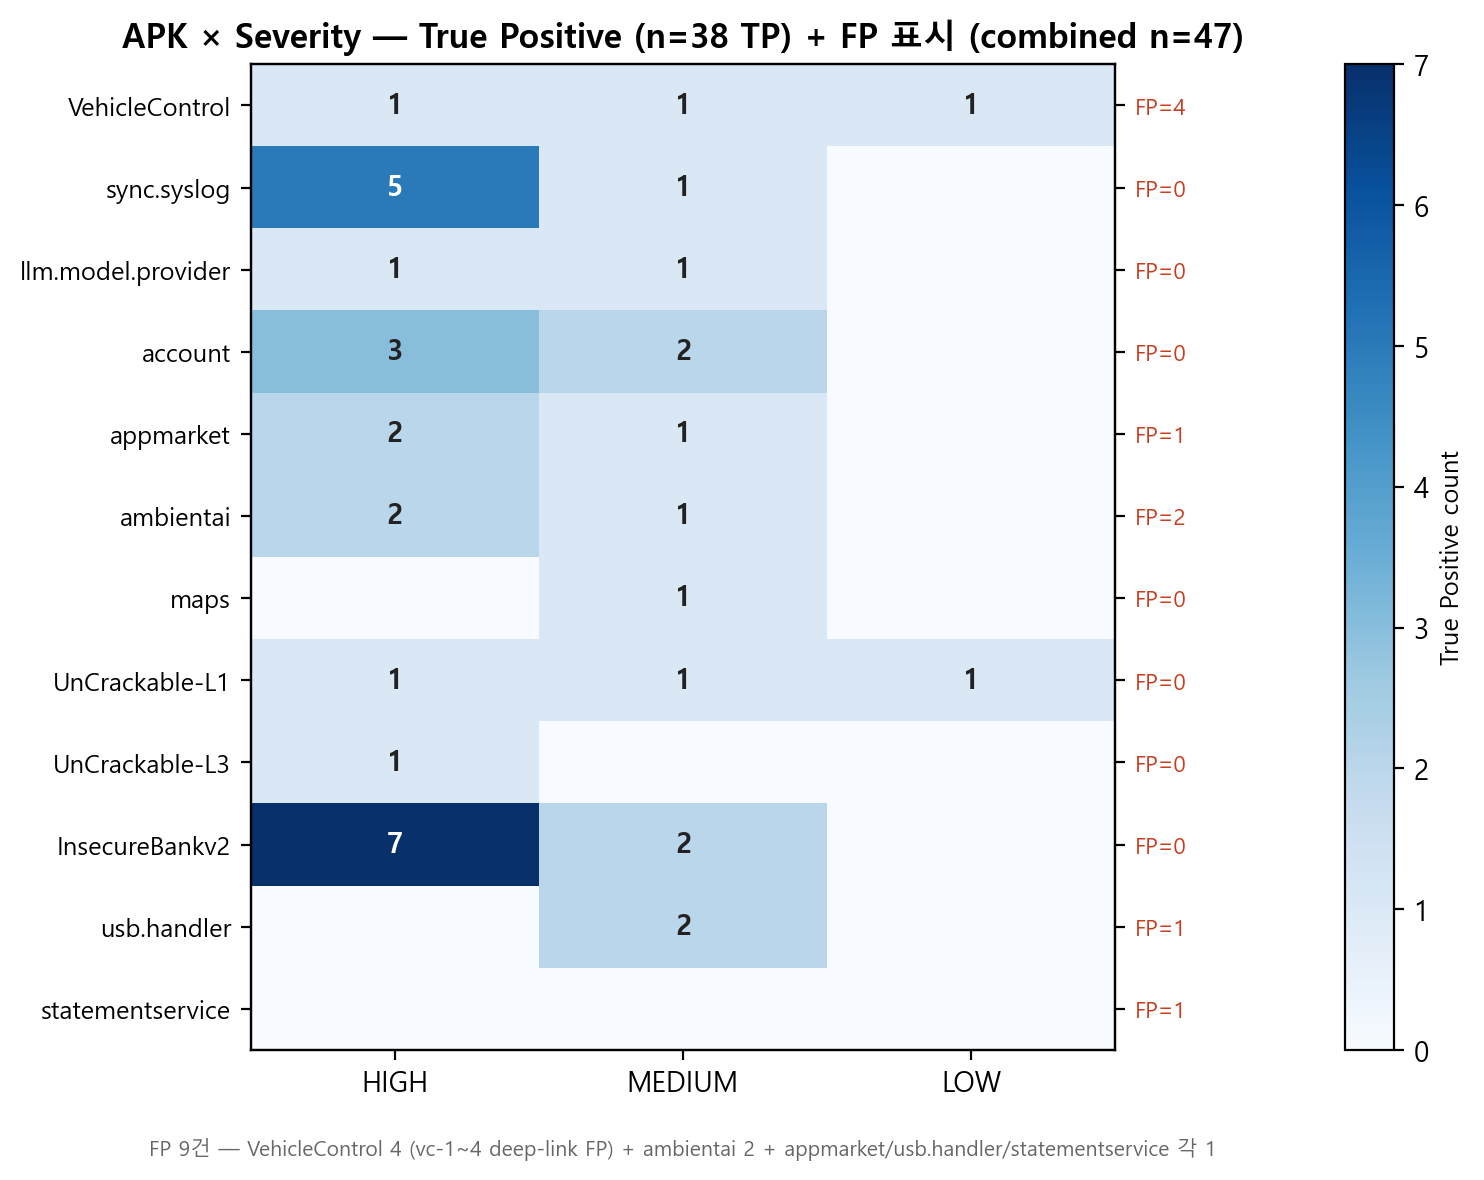
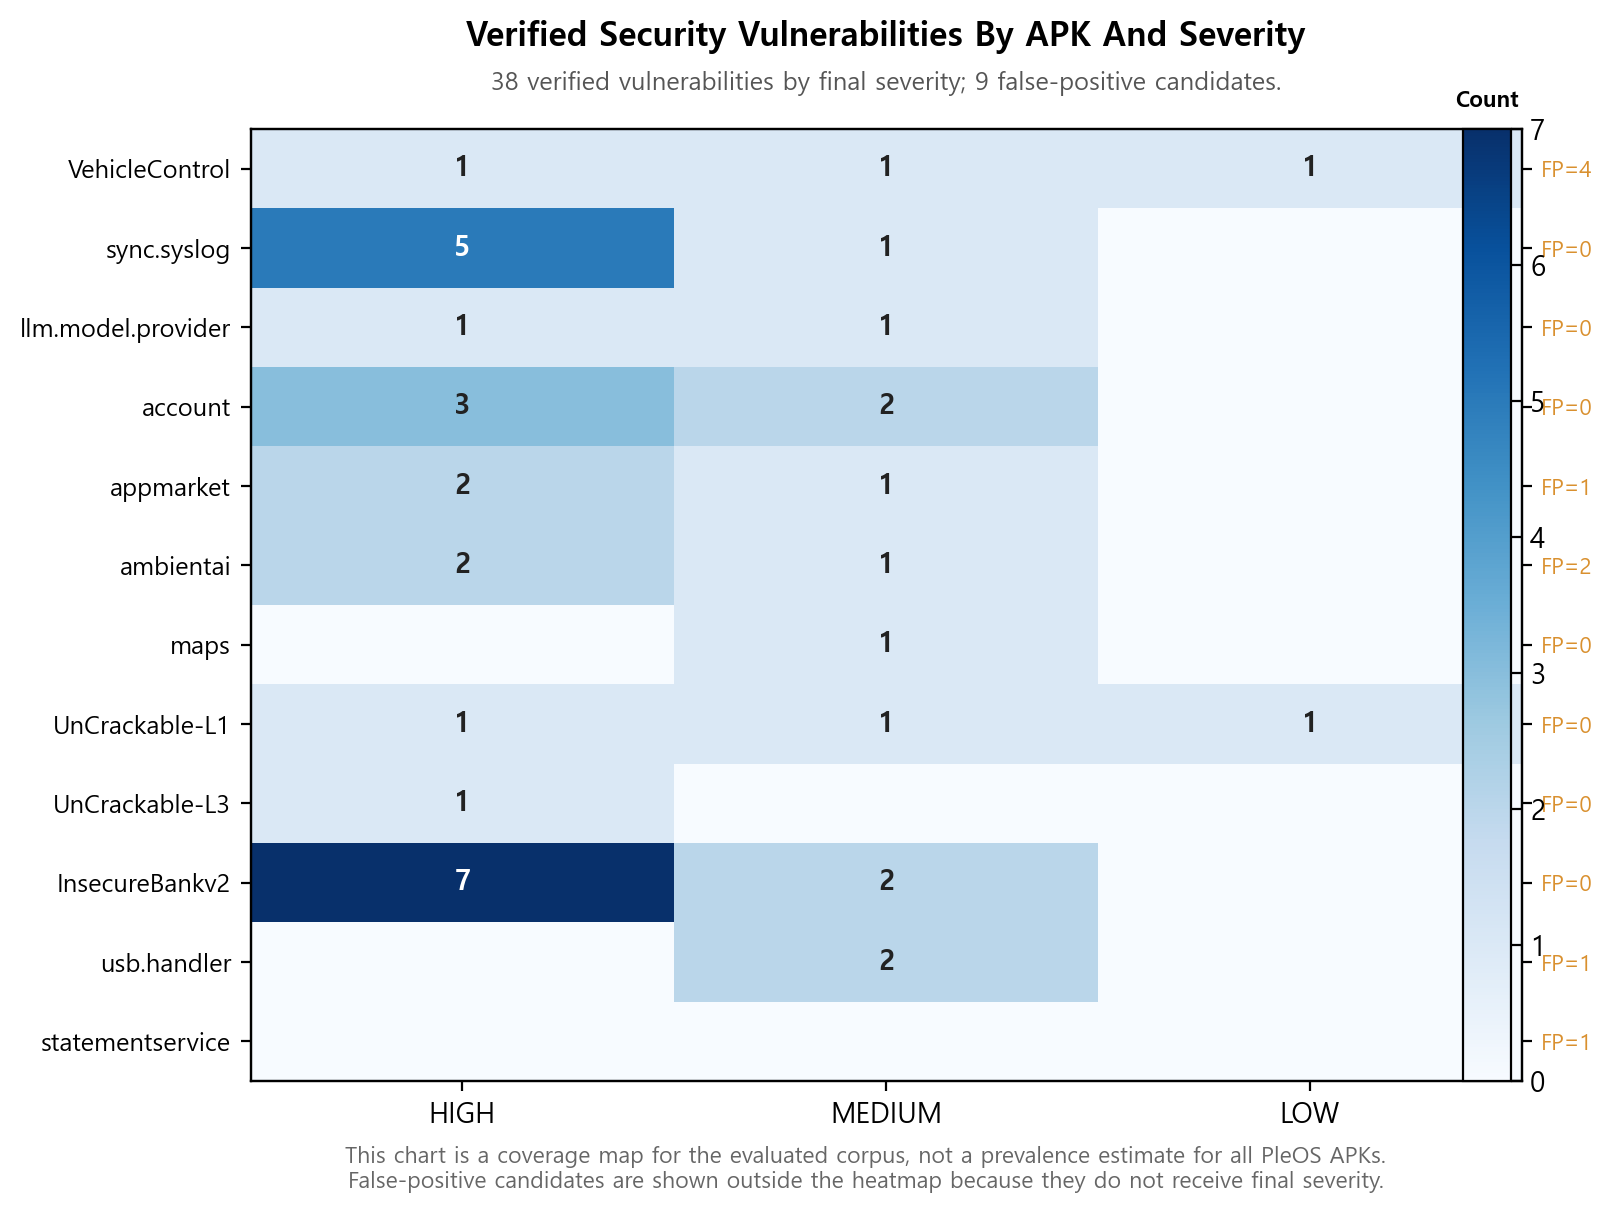
docs: refresh severity heatmap chart

diff --git a/src/viz/plot_metrics.py b/src/viz/plot_metrics.py
@@ -4,7 +4,7 @@ Generate publication-quality charts from the GT + ablation + entropy measurement
 
 Outputs (data/viz/*.png):
 - 01_category_distribution.png   : finding 카테고리 분포 (combined n=47)
-- 02_apk_severity_heatmap.png    : APK × severity 히트맵 (12 APK, n=47)
+- 02_apk_severity_heatmap.png    : verified vulnerabilities by APK and severity
 - 03_fp_rate_trend.png           : 1차/2차/3차 오탐률 (PPT 가설 vs 실측 n=18/n=47)
 - 04_deobf_accuracy_trend.png    : Corpus별 난독화 분포 + LLM rename 정확도 (단일 측정, 시간축 아님)
 - 05_ablation_bars.png           : A 변형 + B threshold sensitivity (combined n=47)
@@ -75,14 +75,15 @@ def chart_category_distribution() -> None:
 
 # ---------------------------------------------------------------- 02 severity heatmap
 def chart_severity_heatmap() -> None:
-    # combined_labels.json n=47 기준 — apk × true_severity TP count + FP 별도 annotation
+    # combined_labels.json n=47: verified vulnerabilities by APK/final severity,
+    # with rejected candidates shown as a separate right-side annotation.
     apks = [
         "VehicleControl", "sync.syslog", "llm.model.provider", "account",
         "appmarket", "ambientai", "maps", "UnCrackable-L1", "UnCrackable-L3",
         "InsecureBankv2", "usb.handler", "statementservice",
     ]
     sev_levels = ["HIGH", "MEDIUM", "LOW"]
-    tp_matrix = np.array(
+    verified_matrix = np.array(
         [
             [1, 1, 1],   # VehicleControl  — vc-5/6/7
             [5, 1, 0],   # sync.syslog     — ssl-1/2/4/5/6 HIGH, ssl-3 MED
@@ -99,37 +100,44 @@ def chart_severity_heatmap() -> None:
         ],
         dtype=int,
     )
-    fp_per_apk = np.array([4, 0, 0, 0, 1, 2, 0, 0, 0, 0, 1, 1])  # 합계 9 FP
+    rejected_per_apk = np.array([4, 0, 0, 0, 1, 2, 0, 0, 0, 0, 1, 1])  # total 9 rejected
 
-    fig, ax = plt.subplots(figsize=(7.4, 6.4))
-    im = ax.imshow(tp_matrix, aspect="auto", cmap="Blues", vmin=0, vmax=tp_matrix.max())
+    fig, ax = plt.subplots(figsize=(8.2, 6.8))
+    im = ax.imshow(verified_matrix, aspect="auto", cmap="Blues", vmin=0, vmax=verified_matrix.max())
     ax.set_xticks(range(len(sev_levels)))
     ax.set_xticklabels(sev_levels)
     ax.set_yticks(range(len(apks)))
     ax.set_yticklabels(apks, fontsize=9)
-    ax.set_title("APK × Severity — True Positive (n=38 TP) + FP 표시 (combined n=47)")
+    ax.set_title("Verified Security Vulnerabilities By APK And Severity", pad=30)
+    ax.text(
+        0.5, 1.035,
+        "38 verified vulnerabilities by final severity; 9 false-positive candidates.",
+        transform=ax.transAxes, ha="center", va="bottom", fontsize=9, color="#555",
+    )
 
     for i in range(len(apks)):
         for j in range(len(sev_levels)):
-            v = tp_matrix[i, j]
+            v = verified_matrix[i, j]
             if v > 0:
                 ax.text(j, i, str(v), ha="center", va="center",
                         color="white" if v >= 4 else "#222", fontweight="bold")
 
-    # FP annotation column on the right
+    # Rejected candidates are not assigned final severity, so they are shown outside the heatmap.
     ax2 = ax.twinx()
     ax2.set_yticks(range(len(apks)))
-    ax2.set_yticklabels([f"FP={n}" for n in fp_per_apk])
+    ax2.set_yticklabels([f"FP={n}" for n in rejected_per_apk])
     ax2.set_ylim(ax.get_ylim())
-    ax2.tick_params(axis="y", labelsize=8, labelcolor="#c73e1d")
+    ax2.tick_params(axis="y", labelsize=8, labelcolor="#d9902f")
 
     cbar = fig.colorbar(im, ax=ax, fraction=0.046, pad=0.20)
-    cbar.set_label("True Positive count", fontsize=9)
-    ax.text(
-        0.5, -0.10,
-        "FP 9건 — VehicleControl 4 (vc-1~4 deep-link FP) + ambientai 2 + appmarket/usb.handler/statementservice 각 1",
-        transform=ax.transAxes, ha="center", va="center", fontsize=7.5, color="#666",
+    cbar.ax.set_title("Count", fontsize=8, pad=8)
+    fig.text(
+        0.5, 0.075,
+        "This chart is a coverage map for the evaluated corpus, not a prevalence estimate for all PleOS APKs.\n"
+        "False-positive candidates are shown outside the heatmap because they do not receive final severity.",
+        ha="center", va="center", fontsize=8.2, color="#666",
     )
+    fig.subplots_adjust(bottom=0.14, top=0.84)
     fig.savefig(OUT_DIR / "02_apk_severity_heatmap.png")
     plt.close(fig)
 

diff --git a/docs/05_charts.md b/docs/05_charts.md
@@ -6,8 +6,8 @@ This document records the chart artifacts used by the final report. The chart im
 
 | Chart | Source input | Command | Boundary |
 |---|---|---|---|
-| `data/viz/01_category_distribution.png` | final `combined_labels.json` `n=47` summary embedded in plotting script | `python src/viz/plot_metrics.py` | Stage 1 category TP/FP distribution, not Stage 3 final report distribution |
-| `data/viz/02_apk_severity_heatmap.png` | final `n=47` APK/severity matrix in script | same | TP heatmap with FP annotation |
+| `data/viz/01_category_distribution.png` | 47-candidate vulnerability-pattern summary embedded in plotting script | `python src/viz/plot_metrics.py` | LLM candidates after context verification; TP/FP appears only in the legend |
+| `data/viz/02_apk_severity_heatmap.png` | verified-vulnerability APK/severity matrix plus false-positive candidate counts in script | same | coverage map for the evaluated corpus, not a prevalence estimate for all PleOS APKs |
 | `data/viz/03_fp_rate_trend.png` | Stage 1/2/3 FP-rate comparison | same | stage comparison, not chronological trend |
 | `data/viz/04_deobf_accuracy_trend.png` | `data/deobf/*.json` plus fixed corpus annotations | same | corpus comparison, not time trend |
 | `data/viz/05_ablation_bars.png` | final `n=47` ablation and consensus-threshold values | same | threshold sensitivity, not new independent evaluation |
@@ -16,6 +16,8 @@ This document records the chart artifacts used by the final report. The chart im
 ## Reading Rules
 
 - The Stage 3 `0.0%` false-positive rate means no false positives among accepted Stage 3 findings in this measured corpus. It is not a universal guarantee.
+- Chart 01 shows candidates proposed from decompiled APK code and then kept or rejected after Android context checks.
+- Chart 02 colors count verified security vulnerabilities by final severity. FP candidates are shown outside the heatmap because they do not receive final severity.
 - The FP-rate chart uses "trend" in the filename, but the x-axis is pipeline stage, not time.
 - The deobfuscation chart uses "trend" in the filename, but it compares corpora, not time.
 - The deobfuscation chart combines two measurements: HIGH-obfuscation ratio and rename-evaluation annotations. The bar height is not rename accuracy.
